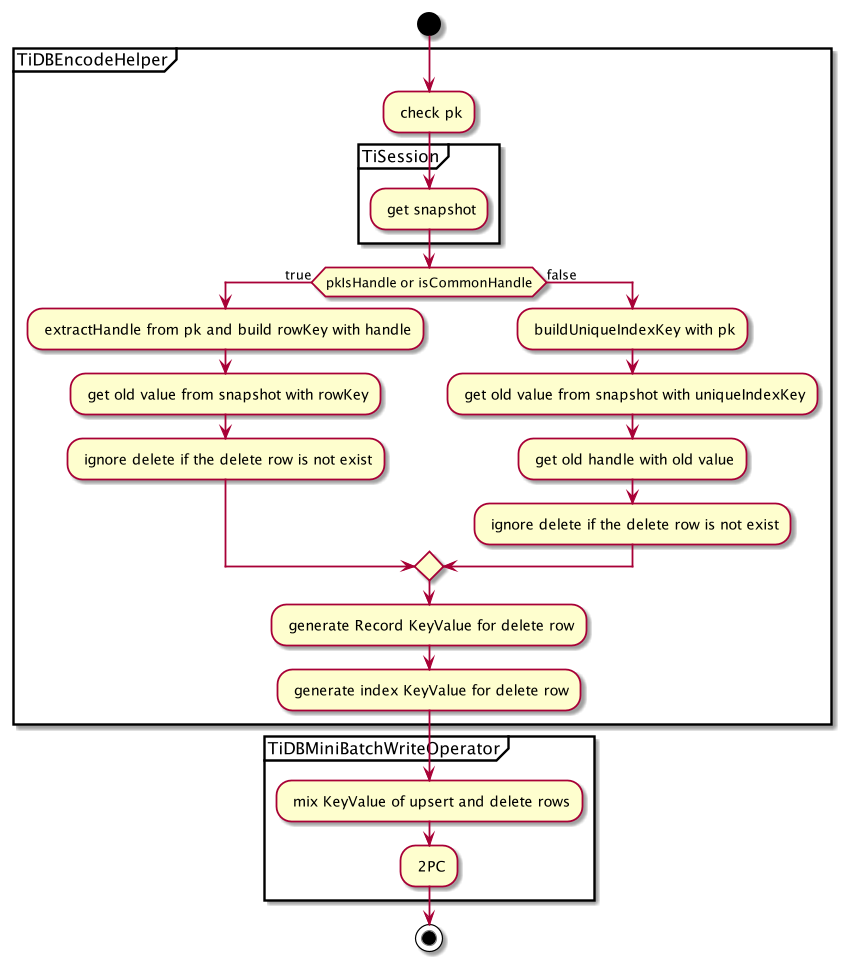
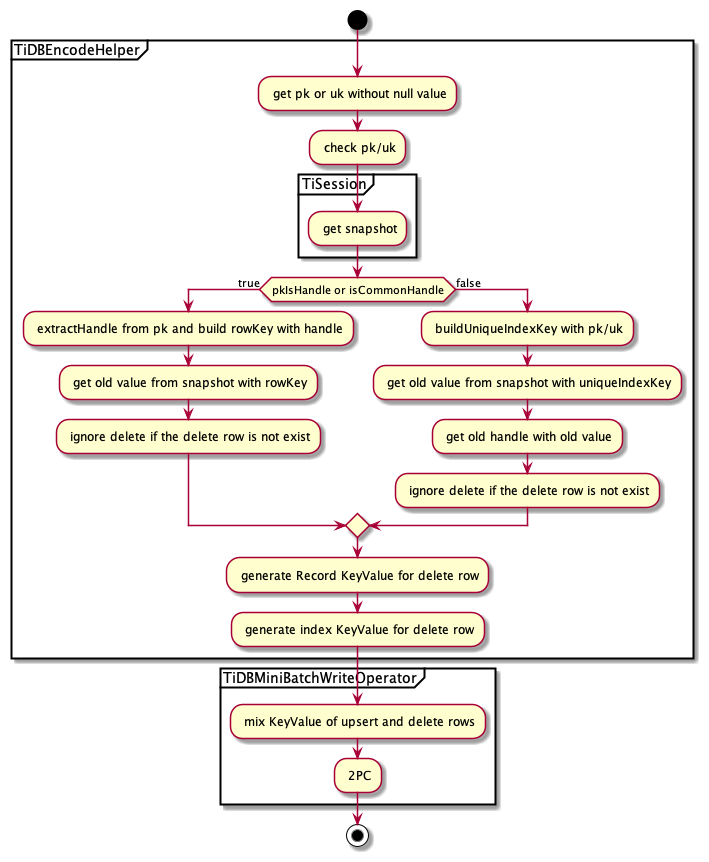
update doc:support uk

diff --git a/docs/design/2022-05-24-delete-feature.md b/docs/design/2022-05-24-delete-feature.md
@@ -53,7 +53,7 @@ Here are the main steps to support the delete feature:
 
 > TiBigData/Flink only supports delete from table with pk, or exception will be thrown.
 
-At first, check pk and get old value from snapshot.
+At first, check pk/uk and get old value from snapshot.
 
 Then, ignore the rows which do not exist in the table.
 
@@ -75,7 +75,8 @@ It is important to keep order in streaming mode, or we may get the error results
 - Delete can't work with batch mode, because Flink doesn't support the DELETE statement now.
 - Delete only works in MINIBATCH transaction. If you work in GLOBAL transaction, delete row will be ignored.
 - Delete only works with upsert mode. If you are in append mode, delete row will be ignored.
-- Delete only works with tables which have pk. If table doesn't have pk, the exception will be thrown.
+- Delete only works with tables which have pk/uk, and at least one pk/uk's value should not be null (every column should not be null for multiple-column pk/uk), or the exception will be thrown.
+
 
 
 ## Test Design
